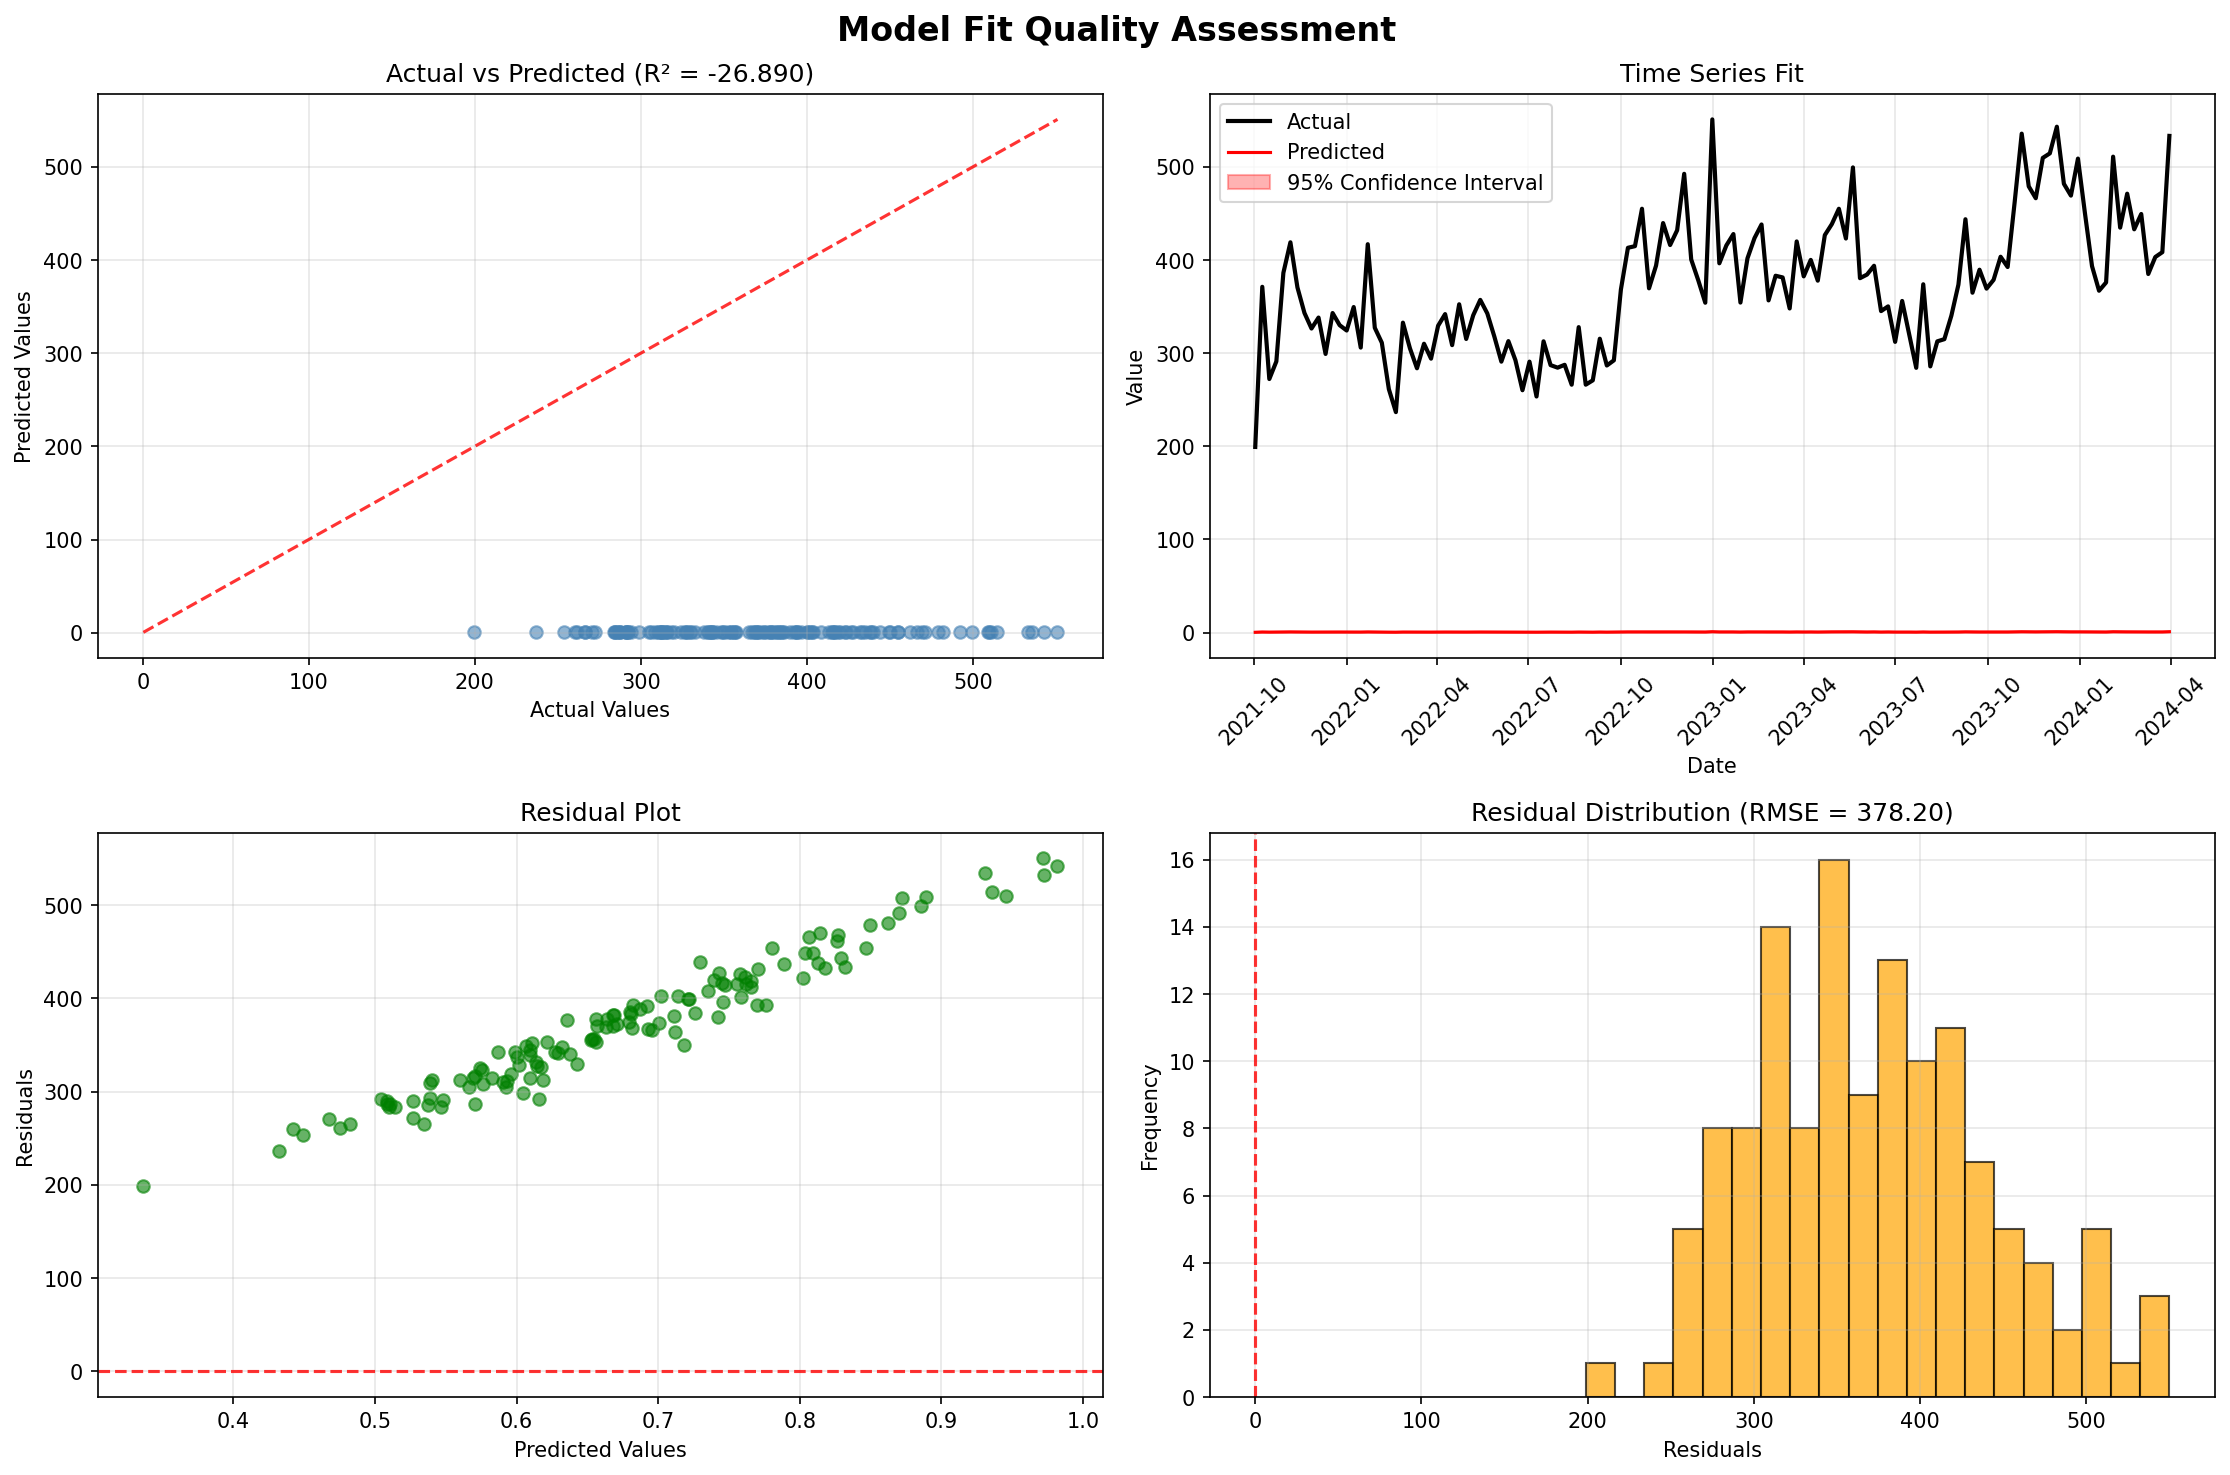
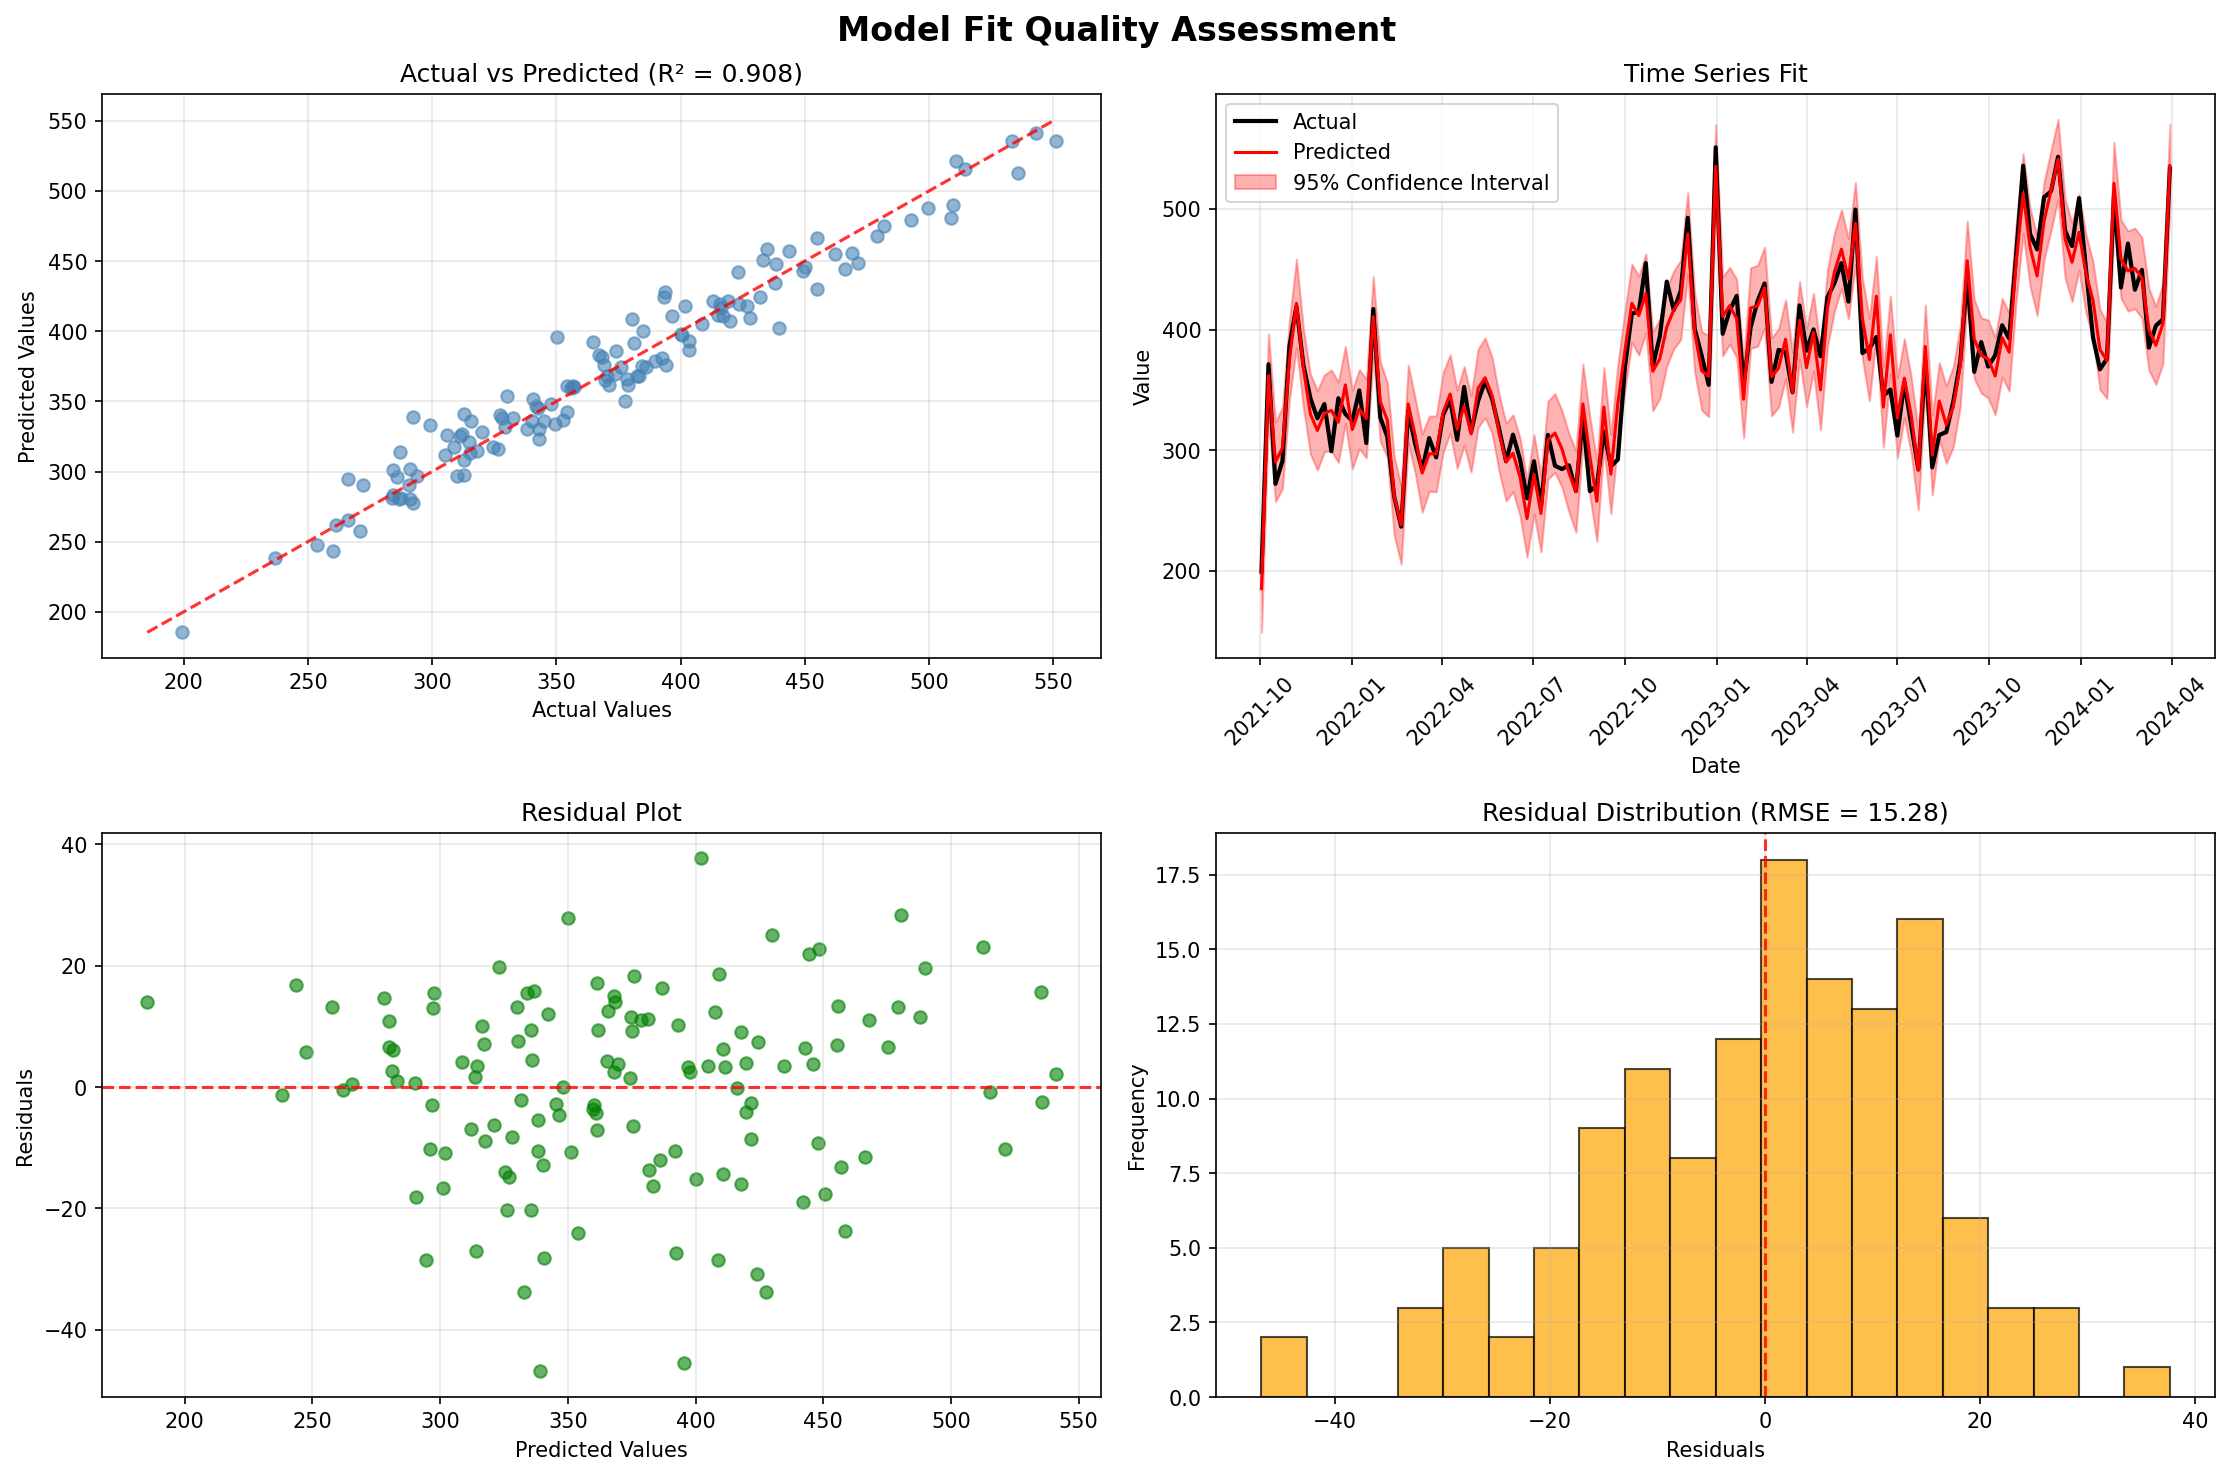
..

diff --git a/causal-dag-editor/src/App.tsx b/causal-dag-editor/src/App.tsx
@@ -810,20 +810,6 @@ function App() {
           <h4 style={{ margin: '0 0 10px 0', fontSize: '14px', color: '#555' }}>Model Training</h4>
           <div style={{ display: 'flex', flexDirection: 'column', gap: '8px' }}>
             <button
-              onClick={() => setShowDAGExport(!showDAGExport)}
-              style={{
-                padding: '8px 12px',
-                backgroundColor: '#4caf50',
-                color: 'white',
-                border: 'none',
-                borderRadius: '4px',
-                cursor: 'pointer',
-                fontSize: '12px'
-              }}
-            >
-              {showDAGExport ? 'Hide' : 'Show'} DAG Structure
-            </button>
-            <button
               onClick={trainModel}
               disabled={isTraining || nodes.length === 0}
               style={{

diff --git a/test_extreme_dags.py b/test_extreme_dags.py
@@ -1,0 +1,124 @@
+#!/usr/bin/env python3
+"""
+测试极端不同的DAG结构
+"""
+
+import sys
+import os
+
+# 添加当前目录到Python路径
+sys.path.append(os.path.dirname(os.path.abspath(__file__)))
+
+try:
+    from causal_mmm_tutorial import CausalMMMTutorial
+    print("✅ 成功导入 CausalMMMTutorial")
+    
+    # 创建实例
+    tutorial = CausalMMMTutorial()
+    print("✅ 成功创建 CausalMMMTutorial 实例")
+    
+    # 生成数据
+    tutorial.generate_synthetic_data()
+    print("✅ 成功生成合成数据")
+    
+    # 测试极端不同的DAG结构
+    test_dags = [
+        {
+            "name": "仅X1模型",
+            "dag_string": """
+            digraph {
+                x1 -> y;
+            }
+            """
+        },
+        {
+            "name": "仅X2模型", 
+            "dag_string": """
+            digraph {
+                x2 -> y;
+            }
+            """
+        },
+        {
+            "name": "X1+X2模型",
+            "dag_string": """
+            digraph {
+                x1 -> y;
+                x2 -> y;
+            }
+            """
+        },
+        {
+            "name": "X1+X2+假期模型",
+            "dag_string": """
+            digraph {
+                x1 -> y;
+                x2 -> y;
+                holiday_signal -> y;
+            }
+            """
+        }
+    ]
+    
+    results = []
+    
+    for i, test_dag in enumerate(test_dags):
+        print(f"\n{'='*50}")
+        print(f"测试 {i+1}: {test_dag['name']}")
+        print(f"{'='*50}")
+        
+        try:
+            # 训练模型
+            result = tutorial.run_causal_model(version="simple", custom_dag=test_dag['dag_string'])
+            
+            if result is not None:
+                print("✅ 模型训练成功!")
+                
+                # 计算R²
+                evaluation_result = tutorial.generate_model_evaluation_plots(result)
+                
+                if evaluation_result:
+                    r2_score = evaluation_result['r2_score']
+                    print(f"📈 R² Score: {r2_score:.4f}")
+                    
+                    results.append({
+                        'name': test_dag['name'],
+                        'r2_score': r2_score,
+                        'dag_string': test_dag['dag_string']
+                    })
+                else:
+                    print("❌ 模型评估失败")
+            else:
+                print("❌ 模型训练失败")
+                
+        except Exception as e:
+            print(f"❌ 错误: {e}")
+    
+    # 总结结果
+    print(f"\n{'='*50}")
+    print("测试结果总结")
+    print(f"{'='*50}")
+    
+    for result in results:
+        print(f"{result['name']}: R² = {result['r2_score']:.4f}")
+    
+    # 检查是否有差异
+    r2_scores = [r['r2_score'] for r in results]
+    if len(set(r2_scores)) > 1:
+        print(f"\n✅ 不同DAG产生了不同的R²值!")
+        print(f"R²值范围: {min(r2_scores):.4f} - {max(r2_scores):.4f}")
+        print(f"最大差异: {max(r2_scores) - min(r2_scores):.4f}")
+        
+        # 分析差异
+        print(f"\n📊 差异分析:")
+        for i, result in enumerate(results):
+            if i > 0:
+                diff = result['r2_score'] - results[i-1]['r2_score']
+                print(f"  {result['name']} vs {results[i-1]['name']}: {diff:+.4f}")
+    else:
+        print(f"\n⚠ 所有DAG产生了相同的R²值: {r2_scores[0]:.4f}")
+        
+except Exception as e:
+    print(f"❌ 错误: {e}")
+    import traceback
+    traceback.print_exc() 

diff --git a/causal_mmm_tutorial.py b/causal_mmm_tutorial.py
@@ -613,14 +613,22 @@ class CausalMMMTutorial:
             
             # 获取模型预测
             posterior_predictive = az.extract(model_result.idata, group="posterior_predictive")
-            y_pred_mean = posterior_predictive["y"].mean(dim="sample").values
-            y_pred_std = posterior_predictive["y"].std(dim="sample").values
+            y_pred_scaled = posterior_predictive["y"].mean(dim="sample").values
+            y_pred_std_scaled = posterior_predictive["y"].std(dim="sample").values
+            
+            # 反标准化预测值
+            y_pred_mean = model_result.target_transformer.inverse_transform(y_pred_scaled.reshape(-1, 1)).flatten()
+            y_pred_std = y_pred_std_scaled * model_result.target_transformer.named_steps['scaler'].scale_.item()
             
             # 实际值
             y_actual = self.df['y'].values[:len(y_pred_mean)]
             
-            # 计算评估指标
-            r2 = r2_score(y_actual, y_pred_mean)
+            # 使用正确的R²计算方式
+            r2 = az.r2_score(
+                y_true=y_actual,
+                y_pred=model_result.idata.posterior_predictive.stack(sample=("chain", "draw"))["y"].values.T
+                * model_result.target_transformer.named_steps['scaler'].scale_.item(),
+            ).iloc[0]
             mape = mean_absolute_percentage_error(y_actual, y_pred_mean)
             mae = np.mean(np.abs(y_actual - y_pred_mean))
             rmse = np.sqrt(np.mean((y_actual - y_pred_mean) ** 2))
@@ -1142,11 +1150,21 @@ class CausalMMMTutorial:
             "time_varying_intercept": True,
         }
         
-        # Only add control_columns and dag if we have control variables
+        # Only add control_columns and dag if we have control variables AND they are not all zero
         if available_control_columns:
-            mmm_config["control_columns"] = available_control_columns
-            mmm_config["dag"] = causal_dag
-            print("🔍 Using causal model with control variables and DAG")
+            # Check if control variables have non-zero variance
+            non_zero_controls = []
+            for col in available_control_columns:
+                if col in X.columns and X[col].var() > 1e-10:  # Check if variance is not essentially zero
+                    non_zero_controls.append(col)
+            
+            if non_zero_controls:
+                mmm_config["control_columns"] = non_zero_controls
+                mmm_config["dag"] = causal_dag
+                print(f"🔍 Using causal model with control variables and DAG: {non_zero_controls}")
+            else:
+                print("🔍 Control variables have zero variance, using basic MMM model")
+                print("⚠ Note: Without valid control variables, this will be a standard correlational MMM model")
         else:
             print("🔍 Using basic MMM model without control variables (no DAG constraints)")
             print("⚠ Note: Without control variables, this will be a standard correlational MMM model")
